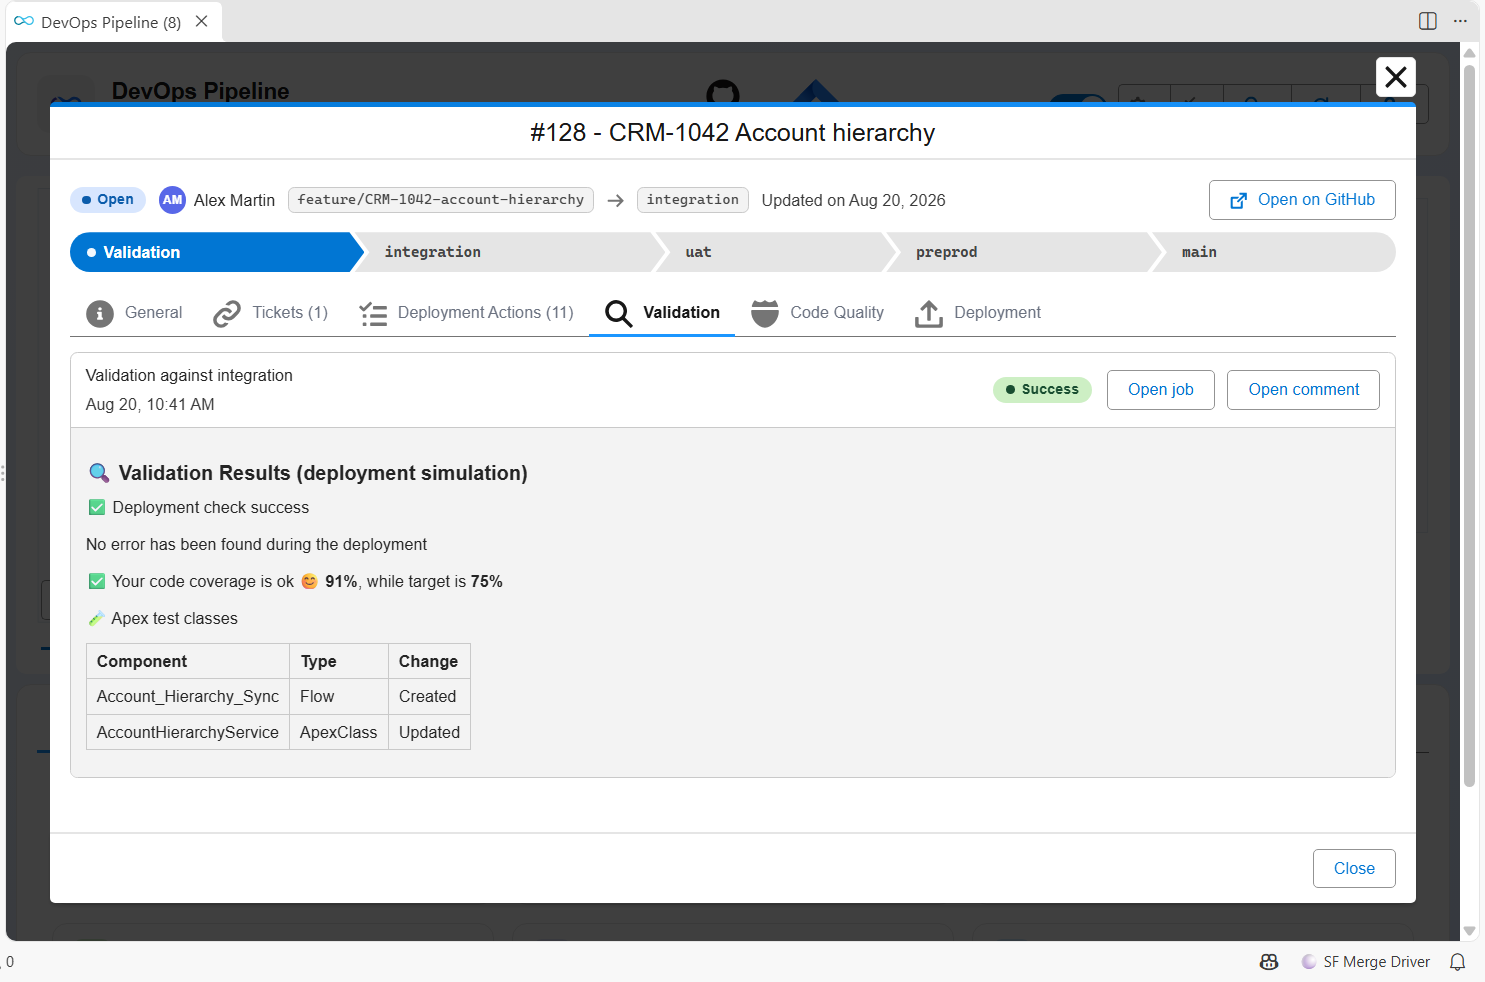
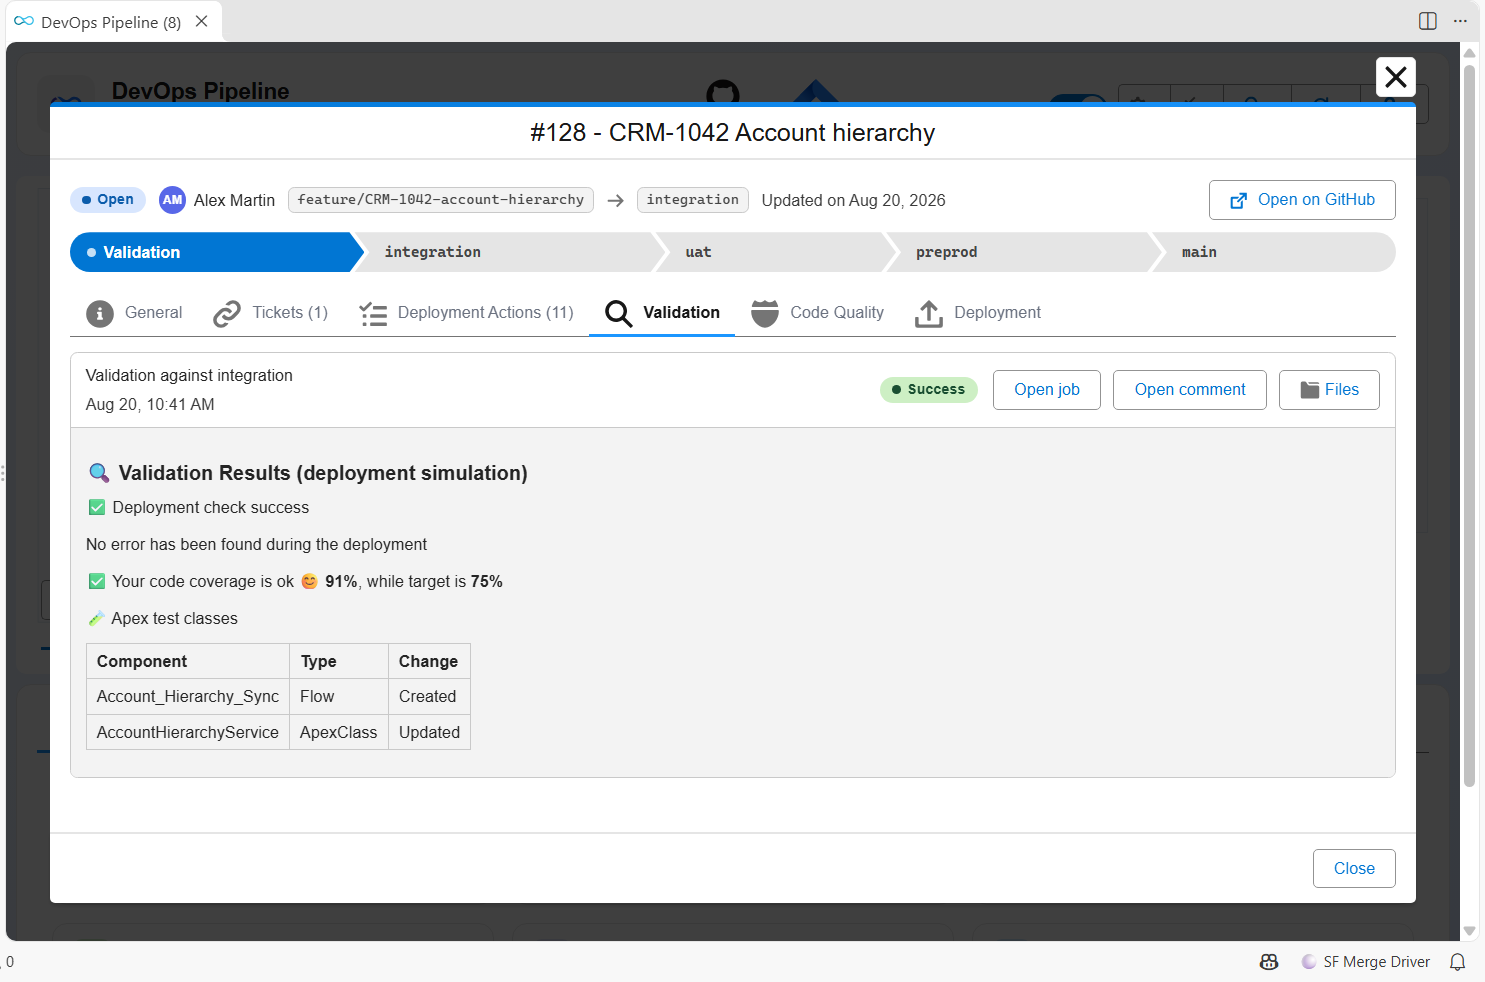
docs: Files button in the Pull Request view page and its screenshot

Changed region(s): [[0.5886, 0.3666, 0.8983, 0.4277]]

diff --git a/docs/vscode-extension-devops-pipeline.md b/docs/vscode-extension-devops-pipeline.md
@@ -87,7 +87,7 @@ The window of a Pull Request shows:
 - **Pull Requests**, on a promotion or on a merge between two major branches: the Pull Requests it carries, each one opening in the same window.
 - **Tickets**, with their status and who they are assigned to.
 - **Deployment Actions** and **Tests**, as in your own Pull Request.
-- **Validation**, **Code Quality** (MegaLinter) and **Deployment**: the comment each of them posted on this Pull Request, as you would read it on your git provider, with its outcome and the links to the job and to the comment. They show the comments of this Pull Request only, not those of a promotion that carried it further.
+- **Validation**, **Code Quality** (MegaLinter) and **Deployment**: the comment each of them posted on this Pull Request, as you would read it on your git provider, with its outcome and the links to the job and to the comment. **Files** lists the report files the job [published as artifacts](salesforce-devops-setup-publish-artifacts.md), downloaded in `hardis-report/job-artifacts` of your project: click one to open it. Above 10 files, they are browsed by folder. Bitbucket has no **Files** button, use the job page there. They show the comments of this Pull Request only, not those of a promotion that carried it further.
 
 **Open on GitHub** (or your git provider) in the header is the way out to the Pull Request page. When the Pull Request was opened from a list or from another Pull Request, **Previous** and **Close** bring that window back; **Close** closes the window otherwise.
 
